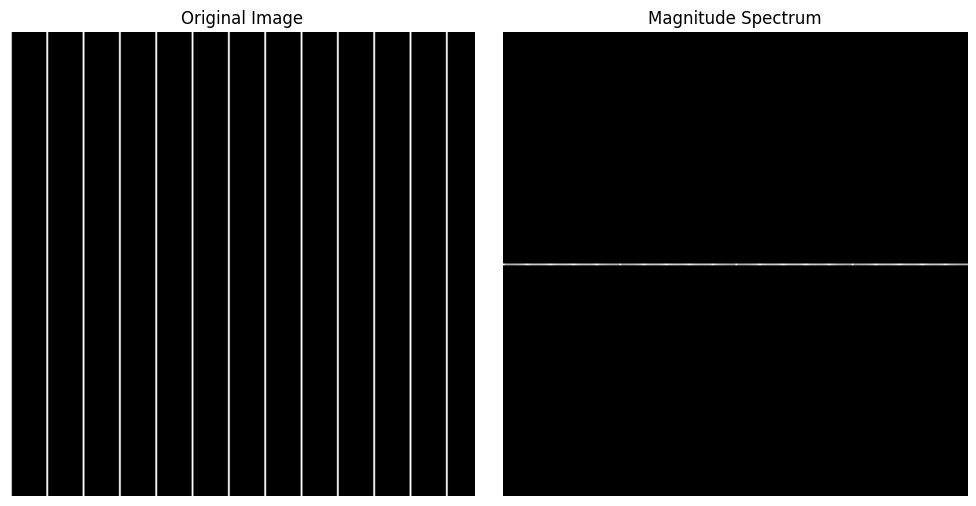
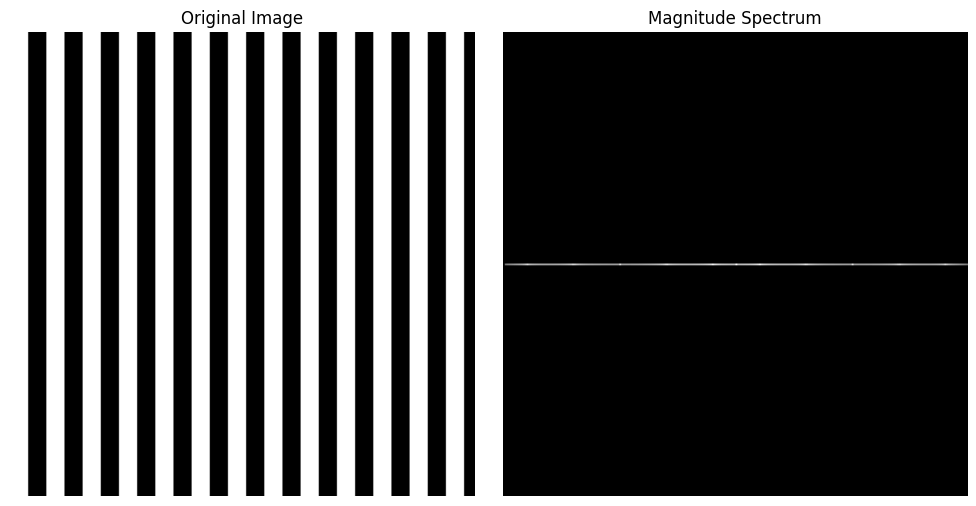
commit

Changed region(s): [[0.0, 0.0593, 0.4918, 0.9783]]

diff --git a/progs/fourier/comp.py b/progs/fourier/comp.py
@@ -33,6 +33,43 @@ def save_image_and_fft(image, title, output_folder, filename):
     print(f"Saved: {combined_path}")
 
 def generate_bar_image(size=(256, 256), bar_width=10, orientation='vertical'):
+    """Generates an image with equally spaced alternating black and white bars."""
+    img = np.zeros(size, dtype=np.uint8)
+    if orientation == 'vertical':
+        for i in range(0, size[1], 2 * bar_width):  # Step through 2*bar_width
+            img[:, i:i + bar_width] = 255  # Set white bars
+    else:
+        for i in range(0, size[0], 2 * bar_width):  # Step through 2*bar_width
+            img[i:i + bar_width, :] = 255  # Set white bars
+    return img
+
+
+
+def generate_grid_image(size=(256, 256), bar_widths=(10, 20)):
+    """
+    Generates an image with a grid (horizontal and vertical bars).
+    Allows varied thickness for horizontal and vertical bars.
+
+    Args:
+        size (tuple): The size of the image (height, width).
+        bar_widths (tuple): A tuple (vertical_bar_width, horizontal_bar_width).
+    """
+    vertical_bar_width, horizontal_bar_width = bar_widths
+    img = np.zeros(size, dtype=np.uint8)
+
+    # Add vertical bars
+    for i in range(0, size[1], 2 * vertical_bar_width):
+        img[:, i:i + vertical_bar_width] = 255
+
+    # Add horizontal bars
+    for j in range(0, size[0], 2 * horizontal_bar_width):
+        img[j:j + horizontal_bar_width, :] = 255
+
+    return img
+
+
+
+def generate_narrow_bar_image(size=(256, 256), bar_width=10, orientation='vertical'):
     """Generates an image with bars (vertical or horizontal)."""
     img = np.zeros(size, dtype=np.uint8)
     if orientation == 'vertical':
@@ -62,6 +99,23 @@ def generate_rectangle_image(size=(256, 256), rect_size=(100, 50), rotation_angl
         rotation_matrix = cv2.getRotationMatrix2D(center, rotation_angle, 1.0)
         img = cv2.warpAffine(img, rotation_matrix, (size[1], size[0]))
     return img
+
+def generate_cross_pattern(size=(256, 256), line_thickness=3):
+    """
+    Generates an image with a vertical and horizontal line intersecting at the center.
+    The Fourier transform of this image will appear as a cross (plus) at the center.
+    """
+    img = np.zeros(size, dtype=np.uint8)
+    center_x, center_y = size[1] // 2, size[0] // 2
+
+    # Draw the vertical line
+    img[:, center_x - line_thickness // 2 : center_x + line_thickness // 2] = 255
+
+    # Draw the horizontal line
+    img[center_y - line_thickness // 2 : center_y + line_thickness // 2, :] = 255
+
+    return img
+
 
 def generate_sinusoidal_wave(size=(256, 256), frequency=10, angle=0):
     """Generates an image with sinusoidal waves at a given frequency and angle."""
@@ -113,13 +167,26 @@ def main():
         checkerboard = generate_checkerboard(block_size=block_size)
         save_image_and_fft(checkerboard, f"Checkerboard (Block {block_size})", output_folder, f"checkerboard_{block_size}")
 
+    # Grid Experiments with Different Sizes
+    for rect_size in [(10, 20), (10, 50), (10, 10)]:
+        grid_image = generate_grid_image(size=(256, 256), bar_widths=rect_size)
+        save_image_and_fft(grid_image, f"Grid (Size {rect_size})", output_folder, f"grid_{rect_size[0]}x{rect_size[1]}")
+
+
+    # Cross Experiments with Different Sizes
+    for thickness in [1,3,5,10]:
+        cross_image = generate_cross_pattern(size=(256, 256), line_thickness=thickness)
+        save_image_and_fft(cross_image, "Cross Pattern", output_folder, f"cross_pattern_{thickness}")    
+
     # Box Experiments with Different Sizes
     for rect_size in [(50, 50), (100, 50), (100, 100)]:
         box_image = generate_rectangle_image(rect_size=rect_size)
         save_image_and_fft(box_image, f"Box (Size {rect_size})", output_folder, f"box_{rect_size[0]}x{rect_size[1]}")
 
-        rotated_box = generate_rectangle_image(rect_size=rect_size, rotation_angle=45)
-        save_image_and_fft(rotated_box, f"Rotated Box (Size {rect_size})", output_folder, f"rotated_box_{rect_size[0]}x{rect_size[1]}")
+    # Box Experiments with Different Rotation Angles
+    for angle in [45, 60, 80]: 
+        rotated_box = generate_rectangle_image(rect_size=(100,50), rotation_angle=angle)
+        save_image_and_fft(rotated_box, f"Rotated Box (Size {rect_size})", output_folder, f"rotated_box_{angle}")
 
 if __name__ == "__main__":
     main()
